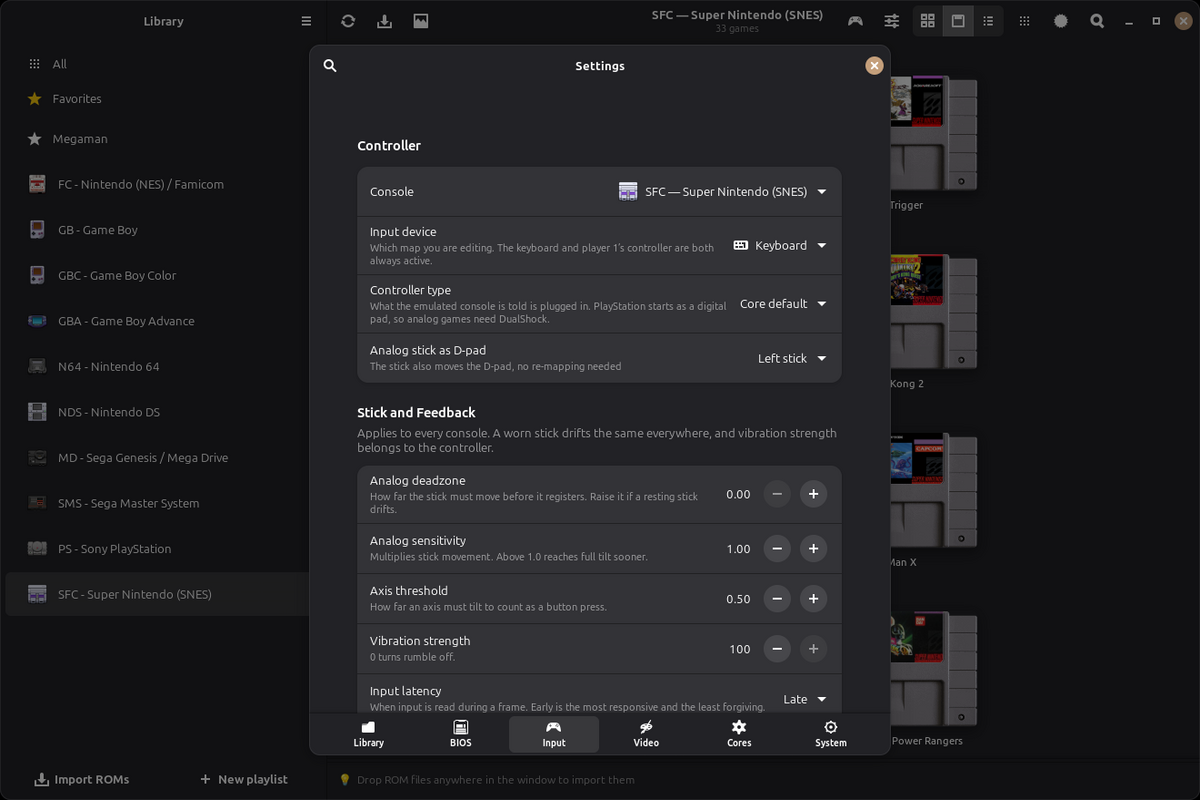
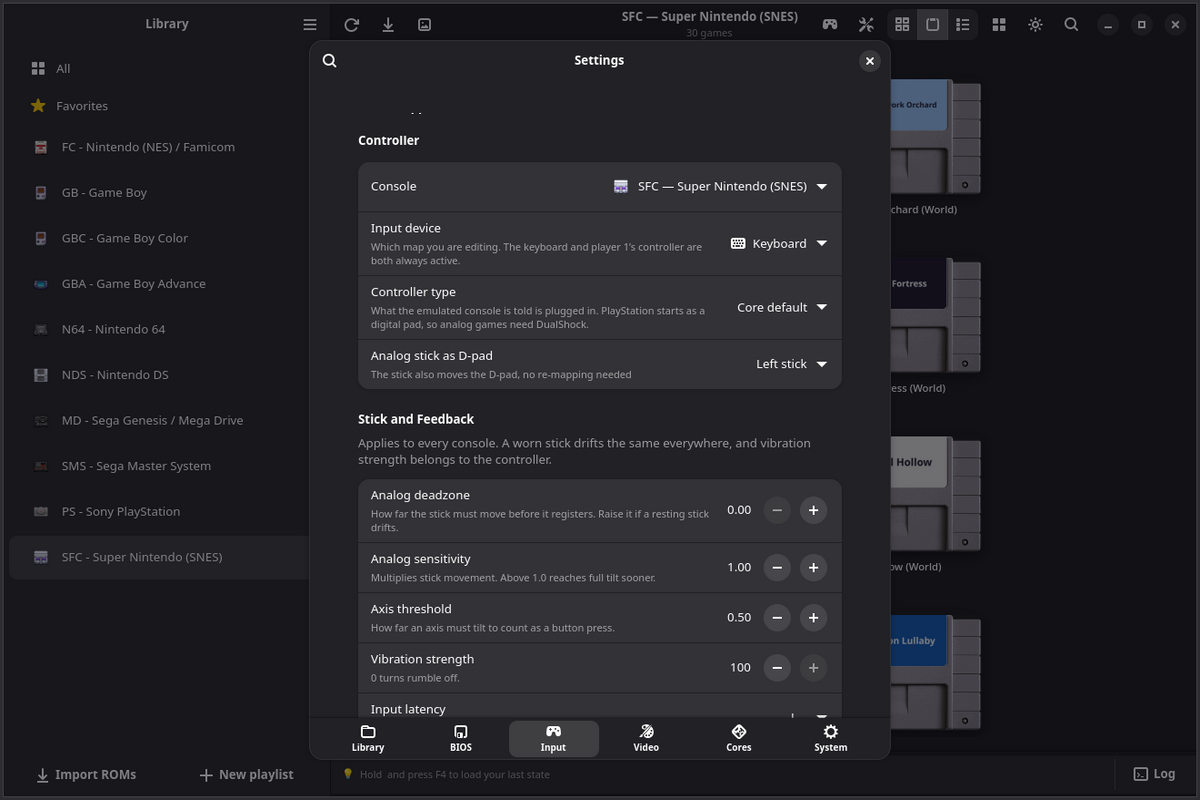
[issue-523] feat: re-shoot the published images from the demo library
Site carousel, README library and settings shots, the welcome wizard and the cartridge wall now come from tools/demo_library.py, captured in the devbox. The unreferenced shelf files (fc, gb, gbc, nds, all, megaman) are removed.

diff --git a/docs/de/index.html b/docs/de/index.html
@@ -1850,10 +1850,10 @@ flatpak install -y openemux io.github.guilhermefeitosa66.OpenEmux</code></pre>
       if (!wall) return;
       // Cartridge renders are 400 px wide; ratio = width / height.
       var CONSOLES = {
-        gba: { ratio: 400 / 230, games: ["bust-a-move", "castlevania-aria-of-sorrow", "castlevania-circle-of-the-moon", "castlevania-harmony-of-dissonance", "donkey-kong-country-1", "donkey-kong-country-2", "donkey-kong-country-3", "dragonball-advanced-adventure", "kirby-nightmare-in-dreamland", "kirby-the-amazing-mirror", "mario-kart-super-circuit", "megaman-bass", "megaman-zero-1", "megaman-zero-2", "megaman-zero-3", "megaman-zero-4", "metal-slug-advance", "metroid-fusion", "metroid-zero-mission", "poke-mon-1-1-fire-red-version", "poke-mon-1-2-leaf-green-version", "poke-mon-3-1-ruby-version", "poke-mon-3-2-sapphire-version", "poke-mon-3-3-emerald-version", "sonic-advance", "super-mario-advance", "super-mario-advance-2-super-mario-world", "super-mario-advance-3-yoshi-s-island", "super-mario-advance-4-super-mario-bros", "the-legend-of-zelda-the-minish-cap", "wario-land-4"] },
-        sfc: { ratio: 400 / 255, games: ["asterix", "bust-a-move", "chrono-trigger", "dolucky-no-a-league-soccer", "donkey-kong-1", "donkey-kong-2", "donkey-kong-3", "goof-troop", "mega-man-x", "mega-man-x2", "mega-man-x3", "mighty-morphin-power-rangers", "mighty-morphin-power-rangers-the-movie", "mortal-kombat-1", "mortal-kombat-2", "mortal-kombat-3", "mortal-kombat-3-ultimate", "prince-of-persia", "street-fighter-ii-turbo", "super-bomberman-1", "super-bomberman-2", "super-bomberman-3", "super-bomberman-4", "super-bomberman-5", "super-mario-all-stars", "super-mario-kart", "super-mario-world", "super-mario-world-2-yoshi-s-island", "super-metroid", "the-legend-of-zelda-a-link-to-the-past", "top-gear-1", "top-gear-2", "top-gear-3000"] },
-        n64: { ratio: 400 / 257, games: ["diddy-kong-racing", "donkey-kong-64", "mario-kart-64", "mortal-kombat-4", "mortal-kombat-trilogy", "super-mario-64", "super-smash-bros", "the-legend-of-zelda-majora-s-mask", "the-legend-of-zelda-ocarina-of-time"] },
-        md: { ratio: 400 / 271, games: ["altered-beast", "batman", "golden-axe", "moonwalker", "sonic-the-hedgehog-1", "sonic-the-hedgehog-2", "sonic-the-hedgehog-3", "streets-of-rage-1", "streets-of-rage-2", "streets-of-rage-3", "yu-yu-hakusho-makyou-toitsusen"] }
+        gba: { ratio: 400 / 230, games: ["acorn-arcade", "basalt-bells", "brass-beetles", "cactus-courier", "chalk-comets", "driftwood-diaries", "fennel-fields", "glass-canyon", "gondola-gambit", "hollow-harp", "ivy-ironworks", "kite-kingdom", "lemon-lightning", "lychee-lane", "maple-mosaic", "moss-knight", "nimbus-noodles", "pixel-pantry", "plum-parade", "pocket-planetarium", "pumice-patrol", "raincoat-rangers", "ripple-runners", "saltmarsh-sprint", "sorrel-speedway", "sparrow-signal", "tangerine-tides", "teacup-tempest", "tinker-tram", "velvet-vortex"] },
+        sfc: { ratio: 400 / 255, games: ["biscuit-brigade", "cinder-bay", "clockwork-orchard", "cobalt-caravan", "copper-lighthouse", "ferris-fortress", "granite-garden", "harbor-hopscotch", "hazel-hollow", "juniper-station", "kettle-knights", "lagoon-lullaby", "lantern-keep", "mango-monsoon", "marble-meadow-rally", "meadow-mechanic", "orchard-siege", "paprika-pass", "pebble-patrol", "puddle-pilots", "rooftop-regatta", "saffron-skyway", "spindle-spire", "sundial-saga", "thimble-quest", "tundra-tailors", "turnip-tactics", "velvet-glacier", "walnut-wanderers", "willow-circuit"] },
+        n64: { ratio: 400 / 257, games: ["canyon-carousel", "glacier-grand-prix", "hover-hamlet", "lunar-laundry", "neon-harbor", "orbit-orchard", "polygon-prairie", "prism-pagoda", "skyline-sledders", "thunder-teapot", "velvet-voltage", "zephyr-zoo"] },
+        md: { ratio: 400 / 271, games: ["blast-bayou", "chrome-canyon", "granite-gale", "harbor-havoc", "iron-iguana", "magma-mailman", "nitro-nectar", "rapid-reef", "static-sunset", "tidepool-racers", "turbo-tortoise", "voltage-valley"] }
       };
       // Top to bottom. SNES and GBA are the front rows (big, bright, fast);
       // N64 and Mega Drive sit behind them at the edges. speed is px/s at full

diff --git a/docs/es/index.html b/docs/es/index.html
@@ -1848,10 +1848,10 @@ flatpak install -y openemux io.github.guilhermefeitosa66.OpenEmux</code></pre>
       if (!wall) return;
       // Cartridge renders are 400 px wide; ratio = width / height.
       var CONSOLES = {
-        gba: { ratio: 400 / 230, games: ["bust-a-move", "castlevania-aria-of-sorrow", "castlevania-circle-of-the-moon", "castlevania-harmony-of-dissonance", "donkey-kong-country-1", "donkey-kong-country-2", "donkey-kong-country-3", "dragonball-advanced-adventure", "kirby-nightmare-in-dreamland", "kirby-the-amazing-mirror", "mario-kart-super-circuit", "megaman-bass", "megaman-zero-1", "megaman-zero-2", "megaman-zero-3", "megaman-zero-4", "metal-slug-advance", "metroid-fusion", "metroid-zero-mission", "poke-mon-1-1-fire-red-version", "poke-mon-1-2-leaf-green-version", "poke-mon-3-1-ruby-version", "poke-mon-3-2-sapphire-version", "poke-mon-3-3-emerald-version", "sonic-advance", "super-mario-advance", "super-mario-advance-2-super-mario-world", "super-mario-advance-3-yoshi-s-island", "super-mario-advance-4-super-mario-bros", "the-legend-of-zelda-the-minish-cap", "wario-land-4"] },
-        sfc: { ratio: 400 / 255, games: ["asterix", "bust-a-move", "chrono-trigger", "dolucky-no-a-league-soccer", "donkey-kong-1", "donkey-kong-2", "donkey-kong-3", "goof-troop", "mega-man-x", "mega-man-x2", "mega-man-x3", "mighty-morphin-power-rangers", "mighty-morphin-power-rangers-the-movie", "mortal-kombat-1", "mortal-kombat-2", "mortal-kombat-3", "mortal-kombat-3-ultimate", "prince-of-persia", "street-fighter-ii-turbo", "super-bomberman-1", "super-bomberman-2", "super-bomberman-3", "super-bomberman-4", "super-bomberman-5", "super-mario-all-stars", "super-mario-kart", "super-mario-world", "super-mario-world-2-yoshi-s-island", "super-metroid", "the-legend-of-zelda-a-link-to-the-past", "top-gear-1", "top-gear-2", "top-gear-3000"] },
-        n64: { ratio: 400 / 257, games: ["diddy-kong-racing", "donkey-kong-64", "mario-kart-64", "mortal-kombat-4", "mortal-kombat-trilogy", "super-mario-64", "super-smash-bros", "the-legend-of-zelda-majora-s-mask", "the-legend-of-zelda-ocarina-of-time"] },
-        md: { ratio: 400 / 271, games: ["altered-beast", "batman", "golden-axe", "moonwalker", "sonic-the-hedgehog-1", "sonic-the-hedgehog-2", "sonic-the-hedgehog-3", "streets-of-rage-1", "streets-of-rage-2", "streets-of-rage-3", "yu-yu-hakusho-makyou-toitsusen"] }
+        gba: { ratio: 400 / 230, games: ["acorn-arcade", "basalt-bells", "brass-beetles", "cactus-courier", "chalk-comets", "driftwood-diaries", "fennel-fields", "glass-canyon", "gondola-gambit", "hollow-harp", "ivy-ironworks", "kite-kingdom", "lemon-lightning", "lychee-lane", "maple-mosaic", "moss-knight", "nimbus-noodles", "pixel-pantry", "plum-parade", "pocket-planetarium", "pumice-patrol", "raincoat-rangers", "ripple-runners", "saltmarsh-sprint", "sorrel-speedway", "sparrow-signal", "tangerine-tides", "teacup-tempest", "tinker-tram", "velvet-vortex"] },
+        sfc: { ratio: 400 / 255, games: ["biscuit-brigade", "cinder-bay", "clockwork-orchard", "cobalt-caravan", "copper-lighthouse", "ferris-fortress", "granite-garden", "harbor-hopscotch", "hazel-hollow", "juniper-station", "kettle-knights", "lagoon-lullaby", "lantern-keep", "mango-monsoon", "marble-meadow-rally", "meadow-mechanic", "orchard-siege", "paprika-pass", "pebble-patrol", "puddle-pilots", "rooftop-regatta", "saffron-skyway", "spindle-spire", "sundial-saga", "thimble-quest", "tundra-tailors", "turnip-tactics", "velvet-glacier", "walnut-wanderers", "willow-circuit"] },
+        n64: { ratio: 400 / 257, games: ["canyon-carousel", "glacier-grand-prix", "hover-hamlet", "lunar-laundry", "neon-harbor", "orbit-orchard", "polygon-prairie", "prism-pagoda", "skyline-sledders", "thunder-teapot", "velvet-voltage", "zephyr-zoo"] },
+        md: { ratio: 400 / 271, games: ["blast-bayou", "chrome-canyon", "granite-gale", "harbor-havoc", "iron-iguana", "magma-mailman", "nitro-nectar", "rapid-reef", "static-sunset", "tidepool-racers", "turbo-tortoise", "voltage-valley"] }
       };
       // Top to bottom. SNES and GBA are the front rows (big, bright, fast);
       // N64 and Mega Drive sit behind them at the edges. speed is px/s at full

diff --git a/docs/fr/index.html b/docs/fr/index.html
@@ -1849,10 +1849,10 @@ flatpak install -y openemux io.github.guilhermefeitosa66.OpenEmux</code></pre>
       if (!wall) return;
       // Cartridge renders are 400 px wide; ratio = width / height.
       var CONSOLES = {
-        gba: { ratio: 400 / 230, games: ["bust-a-move", "castlevania-aria-of-sorrow", "castlevania-circle-of-the-moon", "castlevania-harmony-of-dissonance", "donkey-kong-country-1", "donkey-kong-country-2", "donkey-kong-country-3", "dragonball-advanced-adventure", "kirby-nightmare-in-dreamland", "kirby-the-amazing-mirror", "mario-kart-super-circuit", "megaman-bass", "megaman-zero-1", "megaman-zero-2", "megaman-zero-3", "megaman-zero-4", "metal-slug-advance", "metroid-fusion", "metroid-zero-mission", "poke-mon-1-1-fire-red-version", "poke-mon-1-2-leaf-green-version", "poke-mon-3-1-ruby-version", "poke-mon-3-2-sapphire-version", "poke-mon-3-3-emerald-version", "sonic-advance", "super-mario-advance", "super-mario-advance-2-super-mario-world", "super-mario-advance-3-yoshi-s-island", "super-mario-advance-4-super-mario-bros", "the-legend-of-zelda-the-minish-cap", "wario-land-4"] },
-        sfc: { ratio: 400 / 255, games: ["asterix", "bust-a-move", "chrono-trigger", "dolucky-no-a-league-soccer", "donkey-kong-1", "donkey-kong-2", "donkey-kong-3", "goof-troop", "mega-man-x", "mega-man-x2", "mega-man-x3", "mighty-morphin-power-rangers", "mighty-morphin-power-rangers-the-movie", "mortal-kombat-1", "mortal-kombat-2", "mortal-kombat-3", "mortal-kombat-3-ultimate", "prince-of-persia", "street-fighter-ii-turbo", "super-bomberman-1", "super-bomberman-2", "super-bomberman-3", "super-bomberman-4", "super-bomberman-5", "super-mario-all-stars", "super-mario-kart", "super-mario-world", "super-mario-world-2-yoshi-s-island", "super-metroid", "the-legend-of-zelda-a-link-to-the-past", "top-gear-1", "top-gear-2", "top-gear-3000"] },
-        n64: { ratio: 400 / 257, games: ["diddy-kong-racing", "donkey-kong-64", "mario-kart-64", "mortal-kombat-4", "mortal-kombat-trilogy", "super-mario-64", "super-smash-bros", "the-legend-of-zelda-majora-s-mask", "the-legend-of-zelda-ocarina-of-time"] },
-        md: { ratio: 400 / 271, games: ["altered-beast", "batman", "golden-axe", "moonwalker", "sonic-the-hedgehog-1", "sonic-the-hedgehog-2", "sonic-the-hedgehog-3", "streets-of-rage-1", "streets-of-rage-2", "streets-of-rage-3", "yu-yu-hakusho-makyou-toitsusen"] }
+        gba: { ratio: 400 / 230, games: ["acorn-arcade", "basalt-bells", "brass-beetles", "cactus-courier", "chalk-comets", "driftwood-diaries", "fennel-fields", "glass-canyon", "gondola-gambit", "hollow-harp", "ivy-ironworks", "kite-kingdom", "lemon-lightning", "lychee-lane", "maple-mosaic", "moss-knight", "nimbus-noodles", "pixel-pantry", "plum-parade", "pocket-planetarium", "pumice-patrol", "raincoat-rangers", "ripple-runners", "saltmarsh-sprint", "sorrel-speedway", "sparrow-signal", "tangerine-tides", "teacup-tempest", "tinker-tram", "velvet-vortex"] },
+        sfc: { ratio: 400 / 255, games: ["biscuit-brigade", "cinder-bay", "clockwork-orchard", "cobalt-caravan", "copper-lighthouse", "ferris-fortress", "granite-garden", "harbor-hopscotch", "hazel-hollow", "juniper-station", "kettle-knights", "lagoon-lullaby", "lantern-keep", "mango-monsoon", "marble-meadow-rally", "meadow-mechanic", "orchard-siege", "paprika-pass", "pebble-patrol", "puddle-pilots", "rooftop-regatta", "saffron-skyway", "spindle-spire", "sundial-saga", "thimble-quest", "tundra-tailors", "turnip-tactics", "velvet-glacier", "walnut-wanderers", "willow-circuit"] },
+        n64: { ratio: 400 / 257, games: ["canyon-carousel", "glacier-grand-prix", "hover-hamlet", "lunar-laundry", "neon-harbor", "orbit-orchard", "polygon-prairie", "prism-pagoda", "skyline-sledders", "thunder-teapot", "velvet-voltage", "zephyr-zoo"] },
+        md: { ratio: 400 / 271, games: ["blast-bayou", "chrome-canyon", "granite-gale", "harbor-havoc", "iron-iguana", "magma-mailman", "nitro-nectar", "rapid-reef", "static-sunset", "tidepool-racers", "turbo-tortoise", "voltage-valley"] }
       };
       // Top to bottom. SNES and GBA are the front rows (big, bright, fast);
       // N64 and Mega Drive sit behind them at the edges. speed is px/s at full

diff --git a/docs/index.html b/docs/index.html
@@ -1848,10 +1848,10 @@ flatpak install -y openemux io.github.guilhermefeitosa66.OpenEmux</code></pre>
       if (!wall) return;
       // Cartridge renders are 400 px wide; ratio = width / height.
       var CONSOLES = {
-        gba: { ratio: 400 / 230, games: ["bust-a-move", "castlevania-aria-of-sorrow", "castlevania-circle-of-the-moon", "castlevania-harmony-of-dissonance", "donkey-kong-country-1", "donkey-kong-country-2", "donkey-kong-country-3", "dragonball-advanced-adventure", "kirby-nightmare-in-dreamland", "kirby-the-amazing-mirror", "mario-kart-super-circuit", "megaman-bass", "megaman-zero-1", "megaman-zero-2", "megaman-zero-3", "megaman-zero-4", "metal-slug-advance", "metroid-fusion", "metroid-zero-mission", "poke-mon-1-1-fire-red-version", "poke-mon-1-2-leaf-green-version", "poke-mon-3-1-ruby-version", "poke-mon-3-2-sapphire-version", "poke-mon-3-3-emerald-version", "sonic-advance", "super-mario-advance", "super-mario-advance-2-super-mario-world", "super-mario-advance-3-yoshi-s-island", "super-mario-advance-4-super-mario-bros", "the-legend-of-zelda-the-minish-cap", "wario-land-4"] },
-        sfc: { ratio: 400 / 255, games: ["asterix", "bust-a-move", "chrono-trigger", "dolucky-no-a-league-soccer", "donkey-kong-1", "donkey-kong-2", "donkey-kong-3", "goof-troop", "mega-man-x", "mega-man-x2", "mega-man-x3", "mighty-morphin-power-rangers", "mighty-morphin-power-rangers-the-movie", "mortal-kombat-1", "mortal-kombat-2", "mortal-kombat-3", "mortal-kombat-3-ultimate", "prince-of-persia", "street-fighter-ii-turbo", "super-bomberman-1", "super-bomberman-2", "super-bomberman-3", "super-bomberman-4", "super-bomberman-5", "super-mario-all-stars", "super-mario-kart", "super-mario-world", "super-mario-world-2-yoshi-s-island", "super-metroid", "the-legend-of-zelda-a-link-to-the-past", "top-gear-1", "top-gear-2", "top-gear-3000"] },
-        n64: { ratio: 400 / 257, games: ["diddy-kong-racing", "donkey-kong-64", "mario-kart-64", "mortal-kombat-4", "mortal-kombat-trilogy", "super-mario-64", "super-smash-bros", "the-legend-of-zelda-majora-s-mask", "the-legend-of-zelda-ocarina-of-time"] },
-        md: { ratio: 400 / 271, games: ["altered-beast", "batman", "golden-axe", "moonwalker", "sonic-the-hedgehog-1", "sonic-the-hedgehog-2", "sonic-the-hedgehog-3", "streets-of-rage-1", "streets-of-rage-2", "streets-of-rage-3", "yu-yu-hakusho-makyou-toitsusen"] }
+        gba: { ratio: 400 / 230, games: ["acorn-arcade", "basalt-bells", "brass-beetles", "cactus-courier", "chalk-comets", "driftwood-diaries", "fennel-fields", "glass-canyon", "gondola-gambit", "hollow-harp", "ivy-ironworks", "kite-kingdom", "lemon-lightning", "lychee-lane", "maple-mosaic", "moss-knight", "nimbus-noodles", "pixel-pantry", "plum-parade", "pocket-planetarium", "pumice-patrol", "raincoat-rangers", "ripple-runners", "saltmarsh-sprint", "sorrel-speedway", "sparrow-signal", "tangerine-tides", "teacup-tempest", "tinker-tram", "velvet-vortex"] },
+        sfc: { ratio: 400 / 255, games: ["biscuit-brigade", "cinder-bay", "clockwork-orchard", "cobalt-caravan", "copper-lighthouse", "ferris-fortress", "granite-garden", "harbor-hopscotch", "hazel-hollow", "juniper-station", "kettle-knights", "lagoon-lullaby", "lantern-keep", "mango-monsoon", "marble-meadow-rally", "meadow-mechanic", "orchard-siege", "paprika-pass", "pebble-patrol", "puddle-pilots", "rooftop-regatta", "saffron-skyway", "spindle-spire", "sundial-saga", "thimble-quest", "tundra-tailors", "turnip-tactics", "velvet-glacier", "walnut-wanderers", "willow-circuit"] },
+        n64: { ratio: 400 / 257, games: ["canyon-carousel", "glacier-grand-prix", "hover-hamlet", "lunar-laundry", "neon-harbor", "orbit-orchard", "polygon-prairie", "prism-pagoda", "skyline-sledders", "thunder-teapot", "velvet-voltage", "zephyr-zoo"] },
+        md: { ratio: 400 / 271, games: ["blast-bayou", "chrome-canyon", "granite-gale", "harbor-havoc", "iron-iguana", "magma-mailman", "nitro-nectar", "rapid-reef", "static-sunset", "tidepool-racers", "turbo-tortoise", "voltage-valley"] }
       };
       // Top to bottom. SNES and GBA are the front rows (big, bright, fast);
       // N64 and Mega Drive sit behind them at the edges. speed is px/s at full

diff --git a/docs/ja/index.html b/docs/ja/index.html
@@ -1848,10 +1848,10 @@ flatpak install -y openemux io.github.guilhermefeitosa66.OpenEmux</code></pre>
       if (!wall) return;
       // Cartridge renders are 400 px wide; ratio = width / height.
       var CONSOLES = {
-        gba: { ratio: 400 / 230, games: ["bust-a-move", "castlevania-aria-of-sorrow", "castlevania-circle-of-the-moon", "castlevania-harmony-of-dissonance", "donkey-kong-country-1", "donkey-kong-country-2", "donkey-kong-country-3", "dragonball-advanced-adventure", "kirby-nightmare-in-dreamland", "kirby-the-amazing-mirror", "mario-kart-super-circuit", "megaman-bass", "megaman-zero-1", "megaman-zero-2", "megaman-zero-3", "megaman-zero-4", "metal-slug-advance", "metroid-fusion", "metroid-zero-mission", "poke-mon-1-1-fire-red-version", "poke-mon-1-2-leaf-green-version", "poke-mon-3-1-ruby-version", "poke-mon-3-2-sapphire-version", "poke-mon-3-3-emerald-version", "sonic-advance", "super-mario-advance", "super-mario-advance-2-super-mario-world", "super-mario-advance-3-yoshi-s-island", "super-mario-advance-4-super-mario-bros", "the-legend-of-zelda-the-minish-cap", "wario-land-4"] },
-        sfc: { ratio: 400 / 255, games: ["asterix", "bust-a-move", "chrono-trigger", "dolucky-no-a-league-soccer", "donkey-kong-1", "donkey-kong-2", "donkey-kong-3", "goof-troop", "mega-man-x", "mega-man-x2", "mega-man-x3", "mighty-morphin-power-rangers", "mighty-morphin-power-rangers-the-movie", "mortal-kombat-1", "mortal-kombat-2", "mortal-kombat-3", "mortal-kombat-3-ultimate", "prince-of-persia", "street-fighter-ii-turbo", "super-bomberman-1", "super-bomberman-2", "super-bomberman-3", "super-bomberman-4", "super-bomberman-5", "super-mario-all-stars", "super-mario-kart", "super-mario-world", "super-mario-world-2-yoshi-s-island", "super-metroid", "the-legend-of-zelda-a-link-to-the-past", "top-gear-1", "top-gear-2", "top-gear-3000"] },
-        n64: { ratio: 400 / 257, games: ["diddy-kong-racing", "donkey-kong-64", "mario-kart-64", "mortal-kombat-4", "mortal-kombat-trilogy", "super-mario-64", "super-smash-bros", "the-legend-of-zelda-majora-s-mask", "the-legend-of-zelda-ocarina-of-time"] },
-        md: { ratio: 400 / 271, games: ["altered-beast", "batman", "golden-axe", "moonwalker", "sonic-the-hedgehog-1", "sonic-the-hedgehog-2", "sonic-the-hedgehog-3", "streets-of-rage-1", "streets-of-rage-2", "streets-of-rage-3", "yu-yu-hakusho-makyou-toitsusen"] }
+        gba: { ratio: 400 / 230, games: ["acorn-arcade", "basalt-bells", "brass-beetles", "cactus-courier", "chalk-comets", "driftwood-diaries", "fennel-fields", "glass-canyon", "gondola-gambit", "hollow-harp", "ivy-ironworks", "kite-kingdom", "lemon-lightning", "lychee-lane", "maple-mosaic", "moss-knight", "nimbus-noodles", "pixel-pantry", "plum-parade", "pocket-planetarium", "pumice-patrol", "raincoat-rangers", "ripple-runners", "saltmarsh-sprint", "sorrel-speedway", "sparrow-signal", "tangerine-tides", "teacup-tempest", "tinker-tram", "velvet-vortex"] },
+        sfc: { ratio: 400 / 255, games: ["biscuit-brigade", "cinder-bay", "clockwork-orchard", "cobalt-caravan", "copper-lighthouse", "ferris-fortress", "granite-garden", "harbor-hopscotch", "hazel-hollow", "juniper-station", "kettle-knights", "lagoon-lullaby", "lantern-keep", "mango-monsoon", "marble-meadow-rally", "meadow-mechanic", "orchard-siege", "paprika-pass", "pebble-patrol", "puddle-pilots", "rooftop-regatta", "saffron-skyway", "spindle-spire", "sundial-saga", "thimble-quest", "tundra-tailors", "turnip-tactics", "velvet-glacier", "walnut-wanderers", "willow-circuit"] },
+        n64: { ratio: 400 / 257, games: ["canyon-carousel", "glacier-grand-prix", "hover-hamlet", "lunar-laundry", "neon-harbor", "orbit-orchard", "polygon-prairie", "prism-pagoda", "skyline-sledders", "thunder-teapot", "velvet-voltage", "zephyr-zoo"] },
+        md: { ratio: 400 / 271, games: ["blast-bayou", "chrome-canyon", "granite-gale", "harbor-havoc", "iron-iguana", "magma-mailman", "nitro-nectar", "rapid-reef", "static-sunset", "tidepool-racers", "turbo-tortoise", "voltage-valley"] }
       };
       // Top to bottom. SNES and GBA are the front rows (big, bright, fast);
       // N64 and Mega Drive sit behind them at the edges. speed is px/s at full

diff --git a/docs/pt-br/index.html b/docs/pt-br/index.html
@@ -1849,10 +1849,10 @@ flatpak install -y openemux io.github.guilhermefeitosa66.OpenEmux</code></pre>
       if (!wall) return;
       // Cartridge renders are 400 px wide; ratio = width / height.
       var CONSOLES = {
-        gba: { ratio: 400 / 230, games: ["bust-a-move", "castlevania-aria-of-sorrow", "castlevania-circle-of-the-moon", "castlevania-harmony-of-dissonance", "donkey-kong-country-1", "donkey-kong-country-2", "donkey-kong-country-3", "dragonball-advanced-adventure", "kirby-nightmare-in-dreamland", "kirby-the-amazing-mirror", "mario-kart-super-circuit", "megaman-bass", "megaman-zero-1", "megaman-zero-2", "megaman-zero-3", "megaman-zero-4", "metal-slug-advance", "metroid-fusion", "metroid-zero-mission", "poke-mon-1-1-fire-red-version", "poke-mon-1-2-leaf-green-version", "poke-mon-3-1-ruby-version", "poke-mon-3-2-sapphire-version", "poke-mon-3-3-emerald-version", "sonic-advance", "super-mario-advance", "super-mario-advance-2-super-mario-world", "super-mario-advance-3-yoshi-s-island", "super-mario-advance-4-super-mario-bros", "the-legend-of-zelda-the-minish-cap", "wario-land-4"] },
-        sfc: { ratio: 400 / 255, games: ["asterix", "bust-a-move", "chrono-trigger", "dolucky-no-a-league-soccer", "donkey-kong-1", "donkey-kong-2", "donkey-kong-3", "goof-troop", "mega-man-x", "mega-man-x2", "mega-man-x3", "mighty-morphin-power-rangers", "mighty-morphin-power-rangers-the-movie", "mortal-kombat-1", "mortal-kombat-2", "mortal-kombat-3", "mortal-kombat-3-ultimate", "prince-of-persia", "street-fighter-ii-turbo", "super-bomberman-1", "super-bomberman-2", "super-bomberman-3", "super-bomberman-4", "super-bomberman-5", "super-mario-all-stars", "super-mario-kart", "super-mario-world", "super-mario-world-2-yoshi-s-island", "super-metroid", "the-legend-of-zelda-a-link-to-the-past", "top-gear-1", "top-gear-2", "top-gear-3000"] },
-        n64: { ratio: 400 / 257, games: ["diddy-kong-racing", "donkey-kong-64", "mario-kart-64", "mortal-kombat-4", "mortal-kombat-trilogy", "super-mario-64", "super-smash-bros", "the-legend-of-zelda-majora-s-mask", "the-legend-of-zelda-ocarina-of-time"] },
-        md: { ratio: 400 / 271, games: ["altered-beast", "batman", "golden-axe", "moonwalker", "sonic-the-hedgehog-1", "sonic-the-hedgehog-2", "sonic-the-hedgehog-3", "streets-of-rage-1", "streets-of-rage-2", "streets-of-rage-3", "yu-yu-hakusho-makyou-toitsusen"] }
+        gba: { ratio: 400 / 230, games: ["acorn-arcade", "basalt-bells", "brass-beetles", "cactus-courier", "chalk-comets", "driftwood-diaries", "fennel-fields", "glass-canyon", "gondola-gambit", "hollow-harp", "ivy-ironworks", "kite-kingdom", "lemon-lightning", "lychee-lane", "maple-mosaic", "moss-knight", "nimbus-noodles", "pixel-pantry", "plum-parade", "pocket-planetarium", "pumice-patrol", "raincoat-rangers", "ripple-runners", "saltmarsh-sprint", "sorrel-speedway", "sparrow-signal", "tangerine-tides", "teacup-tempest", "tinker-tram", "velvet-vortex"] },
+        sfc: { ratio: 400 / 255, games: ["biscuit-brigade", "cinder-bay", "clockwork-orchard", "cobalt-caravan", "copper-lighthouse", "ferris-fortress", "granite-garden", "harbor-hopscotch", "hazel-hollow", "juniper-station", "kettle-knights", "lagoon-lullaby", "lantern-keep", "mango-monsoon", "marble-meadow-rally", "meadow-mechanic", "orchard-siege", "paprika-pass", "pebble-patrol", "puddle-pilots", "rooftop-regatta", "saffron-skyway", "spindle-spire", "sundial-saga", "thimble-quest", "tundra-tailors", "turnip-tactics", "velvet-glacier", "walnut-wanderers", "willow-circuit"] },
+        n64: { ratio: 400 / 257, games: ["canyon-carousel", "glacier-grand-prix", "hover-hamlet", "lunar-laundry", "neon-harbor", "orbit-orchard", "polygon-prairie", "prism-pagoda", "skyline-sledders", "thunder-teapot", "velvet-voltage", "zephyr-zoo"] },
+        md: { ratio: 400 / 271, games: ["blast-bayou", "chrome-canyon", "granite-gale", "harbor-havoc", "iron-iguana", "magma-mailman", "nitro-nectar", "rapid-reef", "static-sunset", "tidepool-racers", "turbo-tortoise", "voltage-valley"] }
       };
       // Top to bottom. SNES and GBA are the front rows (big, bright, fast);
       // N64 and Mega Drive sit behind them at the edges. speed is px/s at full

diff --git a/docs/ta/index.html b/docs/ta/index.html
@@ -1848,10 +1848,10 @@ flatpak install -y openemux io.github.guilhermefeitosa66.OpenEmux</code></pre>
       if (!wall) return;
       // Cartridge renders are 400 px wide; ratio = width / height.
       var CONSOLES = {
-        gba: { ratio: 400 / 230, games: ["bust-a-move", "castlevania-aria-of-sorrow", "castlevania-circle-of-the-moon", "castlevania-harmony-of-dissonance", "donkey-kong-country-1", "donkey-kong-country-2", "donkey-kong-country-3", "dragonball-advanced-adventure", "kirby-nightmare-in-dreamland", "kirby-the-amazing-mirror", "mario-kart-super-circuit", "megaman-bass", "megaman-zero-1", "megaman-zero-2", "megaman-zero-3", "megaman-zero-4", "metal-slug-advance", "metroid-fusion", "metroid-zero-mission", "poke-mon-1-1-fire-red-version", "poke-mon-1-2-leaf-green-version", "poke-mon-3-1-ruby-version", "poke-mon-3-2-sapphire-version", "poke-mon-3-3-emerald-version", "sonic-advance", "super-mario-advance", "super-mario-advance-2-super-mario-world", "super-mario-advance-3-yoshi-s-island", "super-mario-advance-4-super-mario-bros", "the-legend-of-zelda-the-minish-cap", "wario-land-4"] },
-        sfc: { ratio: 400 / 255, games: ["asterix", "bust-a-move", "chrono-trigger", "dolucky-no-a-league-soccer", "donkey-kong-1", "donkey-kong-2", "donkey-kong-3", "goof-troop", "mega-man-x", "mega-man-x2", "mega-man-x3", "mighty-morphin-power-rangers", "mighty-morphin-power-rangers-the-movie", "mortal-kombat-1", "mortal-kombat-2", "mortal-kombat-3", "mortal-kombat-3-ultimate", "prince-of-persia", "street-fighter-ii-turbo", "super-bomberman-1", "super-bomberman-2", "super-bomberman-3", "super-bomberman-4", "super-bomberman-5", "super-mario-all-stars", "super-mario-kart", "super-mario-world", "super-mario-world-2-yoshi-s-island", "super-metroid", "the-legend-of-zelda-a-link-to-the-past", "top-gear-1", "top-gear-2", "top-gear-3000"] },
-        n64: { ratio: 400 / 257, games: ["diddy-kong-racing", "donkey-kong-64", "mario-kart-64", "mortal-kombat-4", "mortal-kombat-trilogy", "super-mario-64", "super-smash-bros", "the-legend-of-zelda-majora-s-mask", "the-legend-of-zelda-ocarina-of-time"] },
-        md: { ratio: 400 / 271, games: ["altered-beast", "batman", "golden-axe", "moonwalker", "sonic-the-hedgehog-1", "sonic-the-hedgehog-2", "sonic-the-hedgehog-3", "streets-of-rage-1", "streets-of-rage-2", "streets-of-rage-3", "yu-yu-hakusho-makyou-toitsusen"] }
+        gba: { ratio: 400 / 230, games: ["acorn-arcade", "basalt-bells", "brass-beetles", "cactus-courier", "chalk-comets", "driftwood-diaries", "fennel-fields", "glass-canyon", "gondola-gambit", "hollow-harp", "ivy-ironworks", "kite-kingdom", "lemon-lightning", "lychee-lane", "maple-mosaic", "moss-knight", "nimbus-noodles", "pixel-pantry", "plum-parade", "pocket-planetarium", "pumice-patrol", "raincoat-rangers", "ripple-runners", "saltmarsh-sprint", "sorrel-speedway", "sparrow-signal", "tangerine-tides", "teacup-tempest", "tinker-tram", "velvet-vortex"] },
+        sfc: { ratio: 400 / 255, games: ["biscuit-brigade", "cinder-bay", "clockwork-orchard", "cobalt-caravan", "copper-lighthouse", "ferris-fortress", "granite-garden", "harbor-hopscotch", "hazel-hollow", "juniper-station", "kettle-knights", "lagoon-lullaby", "lantern-keep", "mango-monsoon", "marble-meadow-rally", "meadow-mechanic", "orchard-siege", "paprika-pass", "pebble-patrol", "puddle-pilots", "rooftop-regatta", "saffron-skyway", "spindle-spire", "sundial-saga", "thimble-quest", "tundra-tailors", "turnip-tactics", "velvet-glacier", "walnut-wanderers", "willow-circuit"] },
+        n64: { ratio: 400 / 257, games: ["canyon-carousel", "glacier-grand-prix", "hover-hamlet", "lunar-laundry", "neon-harbor", "orbit-orchard", "polygon-prairie", "prism-pagoda", "skyline-sledders", "thunder-teapot", "velvet-voltage", "zephyr-zoo"] },
+        md: { ratio: 400 / 271, games: ["blast-bayou", "chrome-canyon", "granite-gale", "harbor-havoc", "iron-iguana", "magma-mailman", "nitro-nectar", "rapid-reef", "static-sunset", "tidepool-racers", "turbo-tortoise", "voltage-valley"] }
       };
       // Top to bottom. SNES and GBA are the front rows (big, bright, fast);
       // N64 and Mega Drive sit behind them at the edges. speed is px/s at full

diff --git a/docs/zh-cn/index.html b/docs/zh-cn/index.html
@@ -1848,10 +1848,10 @@ flatpak install -y openemux io.github.guilhermefeitosa66.OpenEmux</code></pre>
       if (!wall) return;
       // Cartridge renders are 400 px wide; ratio = width / height.
       var CONSOLES = {
-        gba: { ratio: 400 / 230, games: ["bust-a-move", "castlevania-aria-of-sorrow", "castlevania-circle-of-the-moon", "castlevania-harmony-of-dissonance", "donkey-kong-country-1", "donkey-kong-country-2", "donkey-kong-country-3", "dragonball-advanced-adventure", "kirby-nightmare-in-dreamland", "kirby-the-amazing-mirror", "mario-kart-super-circuit", "megaman-bass", "megaman-zero-1", "megaman-zero-2", "megaman-zero-3", "megaman-zero-4", "metal-slug-advance", "metroid-fusion", "metroid-zero-mission", "poke-mon-1-1-fire-red-version", "poke-mon-1-2-leaf-green-version", "poke-mon-3-1-ruby-version", "poke-mon-3-2-sapphire-version", "poke-mon-3-3-emerald-version", "sonic-advance", "super-mario-advance", "super-mario-advance-2-super-mario-world", "super-mario-advance-3-yoshi-s-island", "super-mario-advance-4-super-mario-bros", "the-legend-of-zelda-the-minish-cap", "wario-land-4"] },
-        sfc: { ratio: 400 / 255, games: ["asterix", "bust-a-move", "chrono-trigger", "dolucky-no-a-league-soccer", "donkey-kong-1", "donkey-kong-2", "donkey-kong-3", "goof-troop", "mega-man-x", "mega-man-x2", "mega-man-x3", "mighty-morphin-power-rangers", "mighty-morphin-power-rangers-the-movie", "mortal-kombat-1", "mortal-kombat-2", "mortal-kombat-3", "mortal-kombat-3-ultimate", "prince-of-persia", "street-fighter-ii-turbo", "super-bomberman-1", "super-bomberman-2", "super-bomberman-3", "super-bomberman-4", "super-bomberman-5", "super-mario-all-stars", "super-mario-kart", "super-mario-world", "super-mario-world-2-yoshi-s-island", "super-metroid", "the-legend-of-zelda-a-link-to-the-past", "top-gear-1", "top-gear-2", "top-gear-3000"] },
-        n64: { ratio: 400 / 257, games: ["diddy-kong-racing", "donkey-kong-64", "mario-kart-64", "mortal-kombat-4", "mortal-kombat-trilogy", "super-mario-64", "super-smash-bros", "the-legend-of-zelda-majora-s-mask", "the-legend-of-zelda-ocarina-of-time"] },
-        md: { ratio: 400 / 271, games: ["altered-beast", "batman", "golden-axe", "moonwalker", "sonic-the-hedgehog-1", "sonic-the-hedgehog-2", "sonic-the-hedgehog-3", "streets-of-rage-1", "streets-of-rage-2", "streets-of-rage-3", "yu-yu-hakusho-makyou-toitsusen"] }
+        gba: { ratio: 400 / 230, games: ["acorn-arcade", "basalt-bells", "brass-beetles", "cactus-courier", "chalk-comets", "driftwood-diaries", "fennel-fields", "glass-canyon", "gondola-gambit", "hollow-harp", "ivy-ironworks", "kite-kingdom", "lemon-lightning", "lychee-lane", "maple-mosaic", "moss-knight", "nimbus-noodles", "pixel-pantry", "plum-parade", "pocket-planetarium", "pumice-patrol", "raincoat-rangers", "ripple-runners", "saltmarsh-sprint", "sorrel-speedway", "sparrow-signal", "tangerine-tides", "teacup-tempest", "tinker-tram", "velvet-vortex"] },
+        sfc: { ratio: 400 / 255, games: ["biscuit-brigade", "cinder-bay", "clockwork-orchard", "cobalt-caravan", "copper-lighthouse", "ferris-fortress", "granite-garden", "harbor-hopscotch", "hazel-hollow", "juniper-station", "kettle-knights", "lagoon-lullaby", "lantern-keep", "mango-monsoon", "marble-meadow-rally", "meadow-mechanic", "orchard-siege", "paprika-pass", "pebble-patrol", "puddle-pilots", "rooftop-regatta", "saffron-skyway", "spindle-spire", "sundial-saga", "thimble-quest", "tundra-tailors", "turnip-tactics", "velvet-glacier", "walnut-wanderers", "willow-circuit"] },
+        n64: { ratio: 400 / 257, games: ["canyon-carousel", "glacier-grand-prix", "hover-hamlet", "lunar-laundry", "neon-harbor", "orbit-orchard", "polygon-prairie", "prism-pagoda", "skyline-sledders", "thunder-teapot", "velvet-voltage", "zephyr-zoo"] },
+        md: { ratio: 400 / 271, games: ["blast-bayou", "chrome-canyon", "granite-gale", "harbor-havoc", "iron-iguana", "magma-mailman", "nitro-nectar", "rapid-reef", "static-sunset", "tidepool-racers", "turbo-tortoise", "voltage-valley"] }
       };
       // Top to bottom. SNES and GBA are the front rows (big, bright, fast);
       // N64 and Mega Drive sit behind them at the edges. speed is px/s at full

diff --git a/site/page.html b/site/page.html
@@ -1776,10 +1776,10 @@ flatpak install -y openemux io.github.guilhermefeitosa66.OpenEmux</code></pre>
       if (!wall) return;
       // Cartridge renders are 400 px wide; ratio = width / height.
       var CONSOLES = {
-        gba: { ratio: 400 / 230, games: ["bust-a-move", "castlevania-aria-of-sorrow", "castlevania-circle-of-the-moon", "castlevania-harmony-of-dissonance", "donkey-kong-country-1", "donkey-kong-country-2", "donkey-kong-country-3", "dragonball-advanced-adventure", "kirby-nightmare-in-dreamland", "kirby-the-amazing-mirror", "mario-kart-super-circuit", "megaman-bass", "megaman-zero-1", "megaman-zero-2", "megaman-zero-3", "megaman-zero-4", "metal-slug-advance", "metroid-fusion", "metroid-zero-mission", "poke-mon-1-1-fire-red-version", "poke-mon-1-2-leaf-green-version", "poke-mon-3-1-ruby-version", "poke-mon-3-2-sapphire-version", "poke-mon-3-3-emerald-version", "sonic-advance", "super-mario-advance", "super-mario-advance-2-super-mario-world", "super-mario-advance-3-yoshi-s-island", "super-mario-advance-4-super-mario-bros", "the-legend-of-zelda-the-minish-cap", "wario-land-4"] },
-        sfc: { ratio: 400 / 255, games: ["asterix", "bust-a-move", "chrono-trigger", "dolucky-no-a-league-soccer", "donkey-kong-1", "donkey-kong-2", "donkey-kong-3", "goof-troop", "mega-man-x", "mega-man-x2", "mega-man-x3", "mighty-morphin-power-rangers", "mighty-morphin-power-rangers-the-movie", "mortal-kombat-1", "mortal-kombat-2", "mortal-kombat-3", "mortal-kombat-3-ultimate", "prince-of-persia", "street-fighter-ii-turbo", "super-bomberman-1", "super-bomberman-2", "super-bomberman-3", "super-bomberman-4", "super-bomberman-5", "super-mario-all-stars", "super-mario-kart", "super-mario-world", "super-mario-world-2-yoshi-s-island", "super-metroid", "the-legend-of-zelda-a-link-to-the-past", "top-gear-1", "top-gear-2", "top-gear-3000"] },
-        n64: { ratio: 400 / 257, games: ["diddy-kong-racing", "donkey-kong-64", "mario-kart-64", "mortal-kombat-4", "mortal-kombat-trilogy", "super-mario-64", "super-smash-bros", "the-legend-of-zelda-majora-s-mask", "the-legend-of-zelda-ocarina-of-time"] },
-        md: { ratio: 400 / 271, games: ["altered-beast", "batman", "golden-axe", "moonwalker", "sonic-the-hedgehog-1", "sonic-the-hedgehog-2", "sonic-the-hedgehog-3", "streets-of-rage-1", "streets-of-rage-2", "streets-of-rage-3", "yu-yu-hakusho-makyou-toitsusen"] }
+        gba: { ratio: 400 / 230, games: ["acorn-arcade", "basalt-bells", "brass-beetles", "cactus-courier", "chalk-comets", "driftwood-diaries", "fennel-fields", "glass-canyon", "gondola-gambit", "hollow-harp", "ivy-ironworks", "kite-kingdom", "lemon-lightning", "lychee-lane", "maple-mosaic", "moss-knight", "nimbus-noodles", "pixel-pantry", "plum-parade", "pocket-planetarium", "pumice-patrol", "raincoat-rangers", "ripple-runners", "saltmarsh-sprint", "sorrel-speedway", "sparrow-signal", "tangerine-tides", "teacup-tempest", "tinker-tram", "velvet-vortex"] },
+        sfc: { ratio: 400 / 255, games: ["biscuit-brigade", "cinder-bay", "clockwork-orchard", "cobalt-caravan", "copper-lighthouse", "ferris-fortress", "granite-garden", "harbor-hopscotch", "hazel-hollow", "juniper-station", "kettle-knights", "lagoon-lullaby", "lantern-keep", "mango-monsoon", "marble-meadow-rally", "meadow-mechanic", "orchard-siege", "paprika-pass", "pebble-patrol", "puddle-pilots", "rooftop-regatta", "saffron-skyway", "spindle-spire", "sundial-saga", "thimble-quest", "tundra-tailors", "turnip-tactics", "velvet-glacier", "walnut-wanderers", "willow-circuit"] },
+        n64: { ratio: 400 / 257, games: ["canyon-carousel", "glacier-grand-prix", "hover-hamlet", "lunar-laundry", "neon-harbor", "orbit-orchard", "polygon-prairie", "prism-pagoda", "skyline-sledders", "thunder-teapot", "velvet-voltage", "zephyr-zoo"] },
+        md: { ratio: 400 / 271, games: ["blast-bayou", "chrome-canyon", "granite-gale", "harbor-havoc", "iron-iguana", "magma-mailman", "nitro-nectar", "rapid-reef", "static-sunset", "tidepool-racers", "turbo-tortoise", "voltage-valley"] }
       };
       // Top to bottom. SNES and GBA are the front rows (big, bright, fast);
       // N64 and Mega Drive sit behind them at the edges. speed is px/s at full

diff --git a/tools/demo_library.py b/tools/demo_library.py
@@ -12,6 +12,12 @@ cover in ``<roms>/<CONSOLE>/covers/`` and a cartridge label in
     demo_library.py <roms_dir> --configure         # ...and point the app at it
     demo_library.py <roms_dir> --wall docs/assets/carts   # site cartridge wall
 
+``--wall`` composites the labels already in ``<roms_dir>`` and writes nothing
+else: the labels are drawn in the devbox, where the captures are taken, and the
+wall can then be encoded on a machine whose GdkPixbuf WebP saver honours
+``quality`` -- the one the devbox's Ubuntu resolves first is lossless only,
+which makes the 84 files four times their size.
+
 The art follows the #513 spec: a flat GNOME-palette ground, one geometric
 emblem, the title in bold sans, and an era word ("16-BIT") in the top band --
 never a console or company name. The SVG is rendered through librsvg, the same
@@ -139,7 +145,7 @@ FAVORITES = [
 #: The consoles on the site's cartridge wall, which ``site/page.html`` lists.
 WALL = ["GBA", "SFC", "N64", "MD"]
 WALL_WIDTH = 400
-WALL_QUALITY = "90"
+WALL_QUALITY = "80"
 
 # (bg, band, fg, fg2, title), from the GNOME palette and its shades. Dark and
 # light grounds alternate, so neighbouring titles differ in lightness and not
@@ -403,6 +409,9 @@ def configure(roms_dir, config=None):
 def wall(roms_dir, out_dir):
     """The site's cartridge wall: each demo label on its console's frame.
 
+    Reads the labels ``write()`` left in ``roms_dir``; it never draws them, so
+    the wall shows exactly the labels the screenshots show.
+
     Rendered by the app's own compositor at ``WALL_WIDTH`` and saved as WebP,
     named ``<console>-<slug>.webp``. Returns ``{console: [slug, ...]}``, the
     ``games`` lists ``site/page.html`` needs.
@@ -430,17 +439,21 @@ def main(argv=None):
     parser = argparse.ArgumentParser(description=__doc__.split("\n")[0])
     parser.add_argument("roms_dir", type=Path)
     parser.add_argument("--configure", action="store_true", help="point the app's config at the library")
-    parser.add_argument("--wall", type=Path, metavar="OUT_DIR", help="also render the site's cartridge wall")
+    parser.add_argument(
+        "--wall", type=Path, metavar="OUT_DIR",
+        help="render the site's cartridge wall from the labels already in roms_dir, and nothing else",
+    )
     args = parser.parse_args(argv)
 
     roms_dir = args.roms_dir.expanduser().resolve()
+    if args.wall:
+        for console, slugs in wall(roms_dir, args.wall).items():
+            print(f"{console.lower()}: " + ", ".join(f'"{s}"' for s in slugs))
+        return 0
     print(f"{write(roms_dir)} files written to {roms_dir}")
     if args.configure:
         config = configure(roms_dir)
         print(f"roms_path set in {config.config_file}")
-    if args.wall:
-        for console, slugs in wall(roms_dir, args.wall).items():
-            print(f'{console.lower()}: {", ".join(f"{s!r}" for s in slugs)}'.replace("'", '"'))
     return 0
 
 

diff --git a/tests/test_demo_library.py b/tests/test_demo_library.py
@@ -291,17 +291,24 @@ class MainTest(unittest.TestCase):
             self.assertIn("files written", output)
             self.assertTrue((Path(tmp) / "PS" / "Paper Pinwheels (World).cue").is_file())
 
-    def test_configure_and_wall(self):
+    def test_configure_then_wall(self):
         home = IsolatedHome()
         config = home.start()
         self.addCleanup(home.stop)
         roms = home.root / "demo"
         with mock.patch("openemux.core.config.ConfigManager", return_value=config):
-            output = self._run(str(roms), "--configure", "--wall", str(home.root / "carts"))
+            output = self._run(str(roms), "--configure")
         self.assertIn("roms_path set in", output)
-        self.assertIn('gba: "moss-knight", "teacup-tempest"', output)
         self.assertEqual(config.get_roms_path(), roms)
+
+        label = roms / "GBA" / "labels" / "Moss Knight (World).png"
+        before = label.read_bytes()
+        output = self._run(str(roms), "--wall", str(home.root / "carts"))
+        self.assertIn('gba: "moss-knight", "teacup-tempest"', output)
+        self.assertNotIn("files written", output)
         self.assertTrue((home.root / "carts" / "gba-teacup-tempest.webp").is_file())
+        # The wall reads the labels; it never redraws them.
+        self.assertEqual(label.read_bytes(), before)
 
 
 if __name__ == "__main__":
